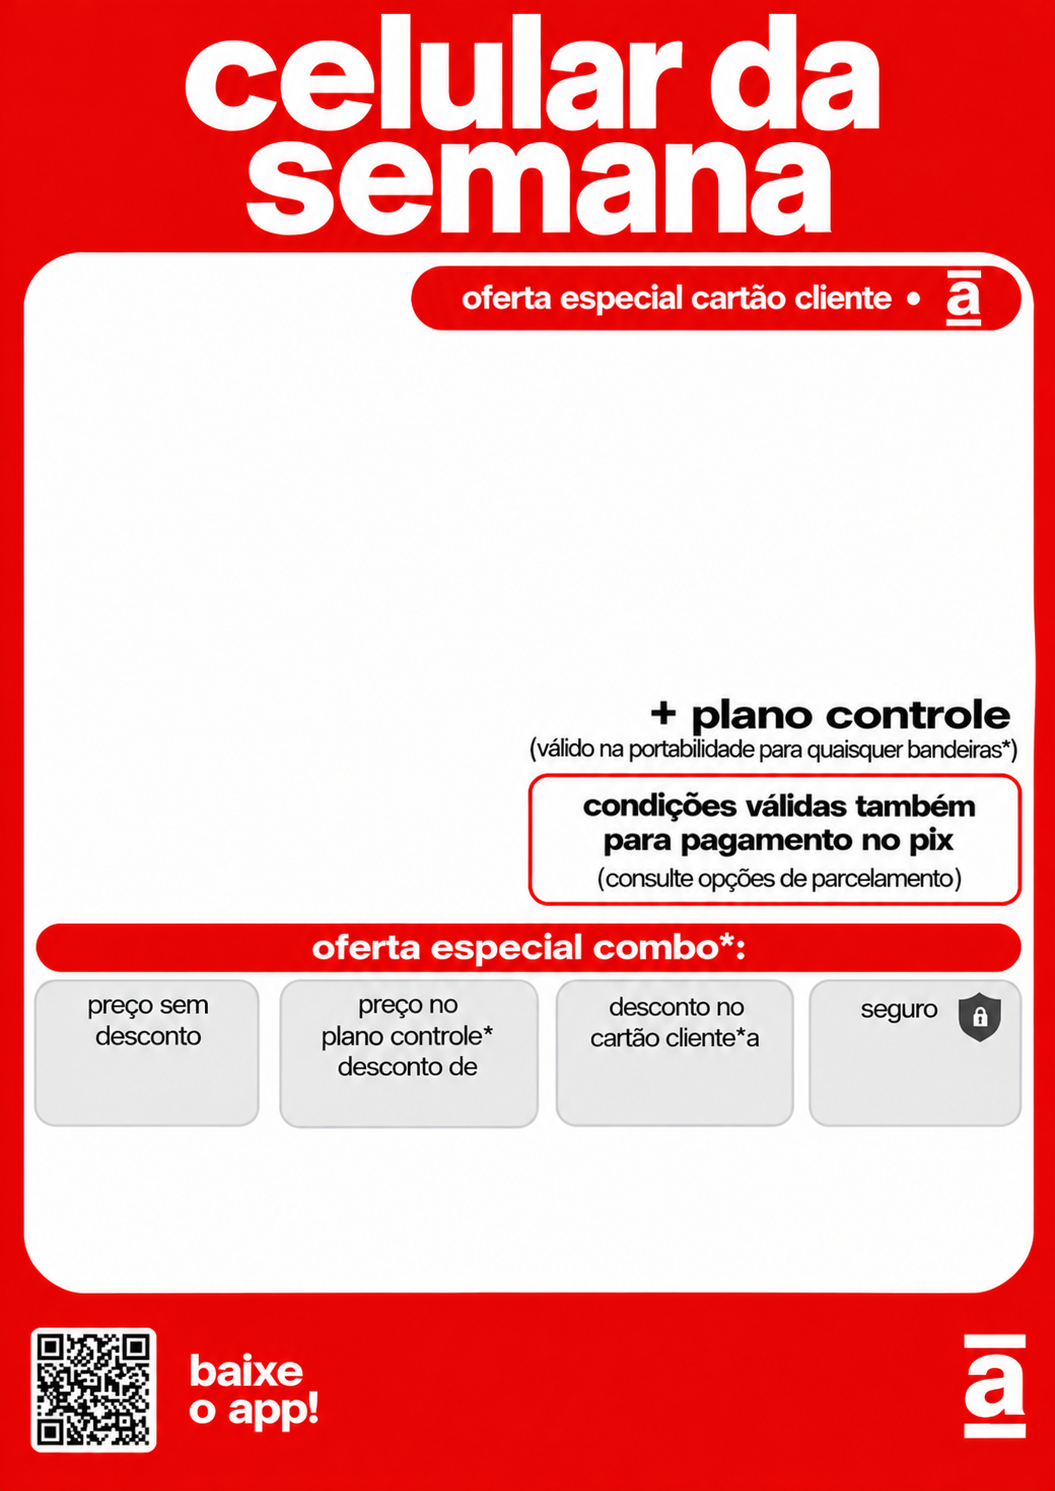
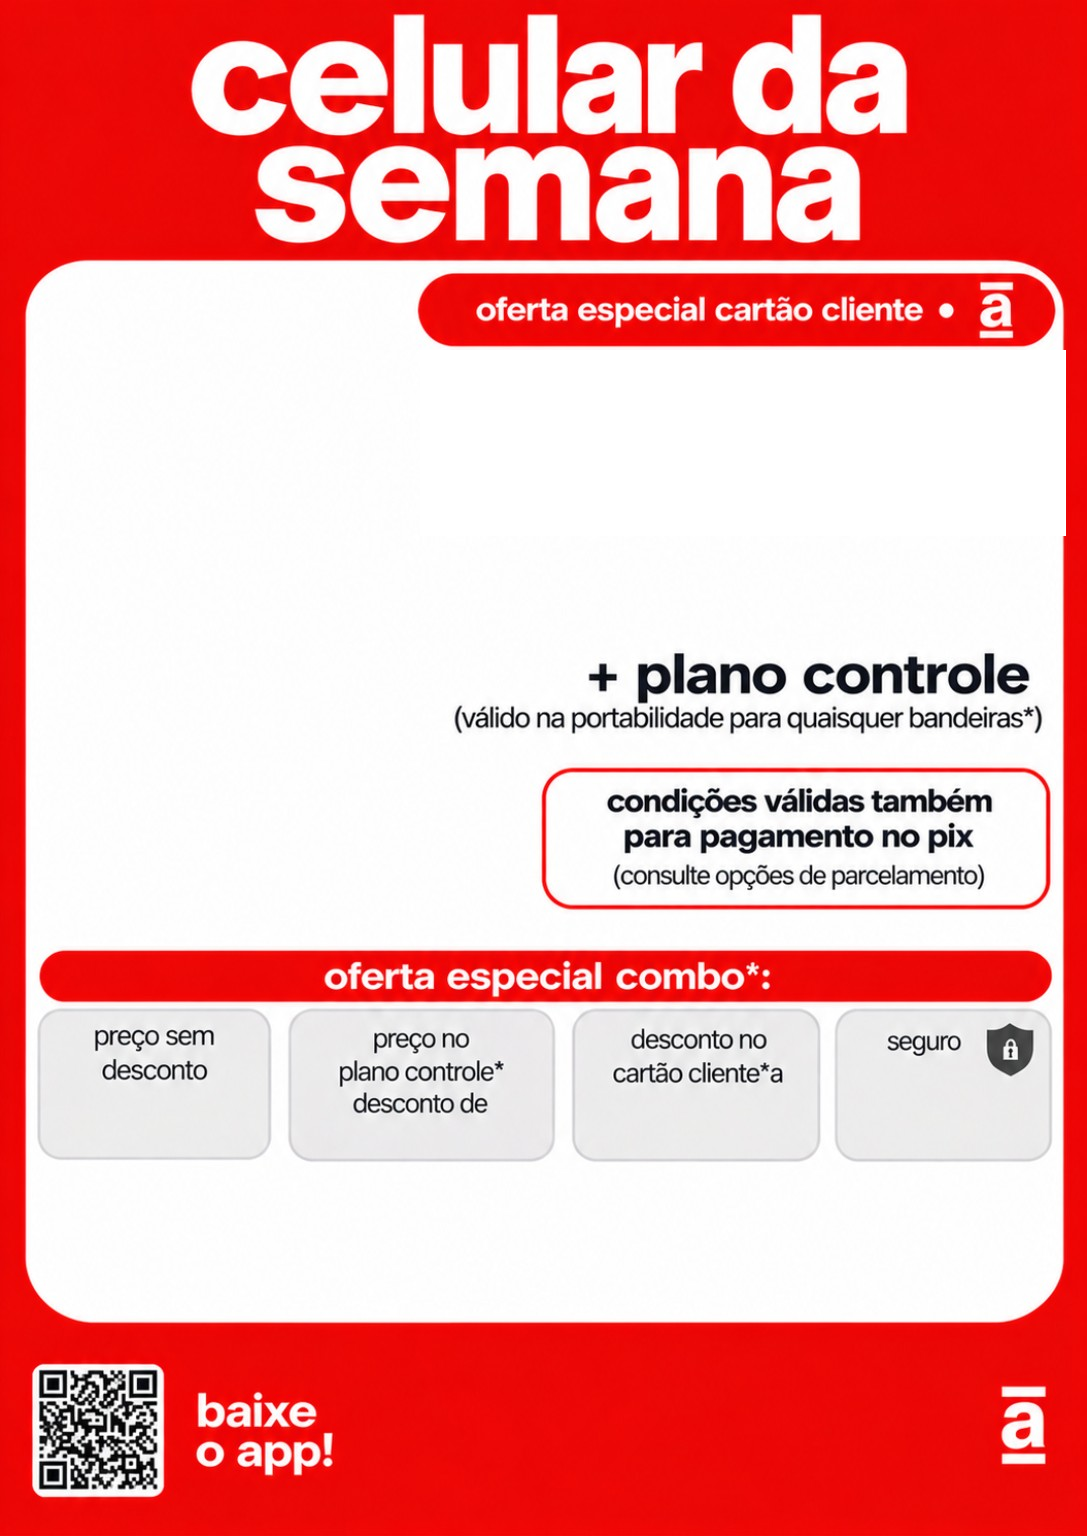
Celular da semana: novo modelo de overlay e posicoes ajustadas; v1.1.293

diff --git a/lib/widgets/celular_semana_poster.dart b/lib/widgets/celular_semana_poster.dart
@@ -78,7 +78,7 @@ class CelularSemanaPoster extends StatelessWidget {
     final partes = _partesDescricao(data.descricao);
     return Positioned(
       left: 515,
-      top: 340,
+      top: 343,
       width: 510,
       child: Column(
         crossAxisAlignment: CrossAxisAlignment.start,
@@ -92,7 +92,7 @@ class CelularSemanaPoster extends StatelessWidget {
               color: _ink,
               fontSize: 64,
               fontWeight: FontWeight.w400,
-              height: 1,
+              height: 0.9,
               letterSpacing: -0.5,
             ),
           ),
@@ -106,7 +106,7 @@ class CelularSemanaPoster extends StatelessWidget {
               color: _ink,
               fontSize: 70,
               fontWeight: FontWeight.w700,
-              height: 0.95,
+              height: 0.9,
               letterSpacing: -1.2,
             ),
           ),
@@ -134,7 +134,7 @@ class CelularSemanaPoster extends StatelessWidget {
   Widget _de() {
     return Positioned(
       left: 515,
-      top: 490,
+      top: 483,
       width: 510,
       child: Text(
         'de: R\$ ${_money(data.precoOriginal)} à vista',
@@ -151,7 +151,7 @@ class CelularSemanaPoster extends StatelessWidget {
   Widget _por() {
     return Positioned(
       left: 515,
-      top: 548,
+      top: 541,
       width: 510,
       height: 90,
       child: FittedBox(
@@ -192,30 +192,30 @@ class CelularSemanaPoster extends StatelessWidget {
       child: Stack(
         children: [
           _valorCaixa(
-            left: 35,
+            left: 45,
             width: 210,
             top: 1055,
             texto: 'R\$ ${_money(data.precoOriginal)}',
             fontSize: 34,
           ),
           _valorCaixa(
-            left: 280,
+            left: 292,
             width: 235,
-            top: 1082,
+            top: 1085,
             texto: 'R\$ ${_money(data.descontoPortabilidade)}',
             fontSize: 32,
           ),
           _valorCaixa(
-            left: 550,
+            left: 559,
             width: 235,
-            top: 1052,
+            top: 1058,
             texto: '${data.percentualFormatado}% OFF',
             fontSize: 42,
           ),
           _valorCaixa(
-            left: 820,
+            left: 815,
             width: 200,
-            top: 1048,
+            top: 1050,
             texto: 'R\$ ${_money(data.seguro)}',
             fontSize: 40,
           ),
@@ -265,9 +265,9 @@ class CelularSemanaPoster extends StatelessWidget {
         '${data.ofertaFim} podendo encerrar sem aviso prévio.';
     return Positioned(
       left: 35,
-      top: 1122,
+      top: 1135,
       width: 985,
-      height: 176,
+      height: 140,
       child: Center(
         child: FittedBox(
           fit: BoxFit.scaleDown,
